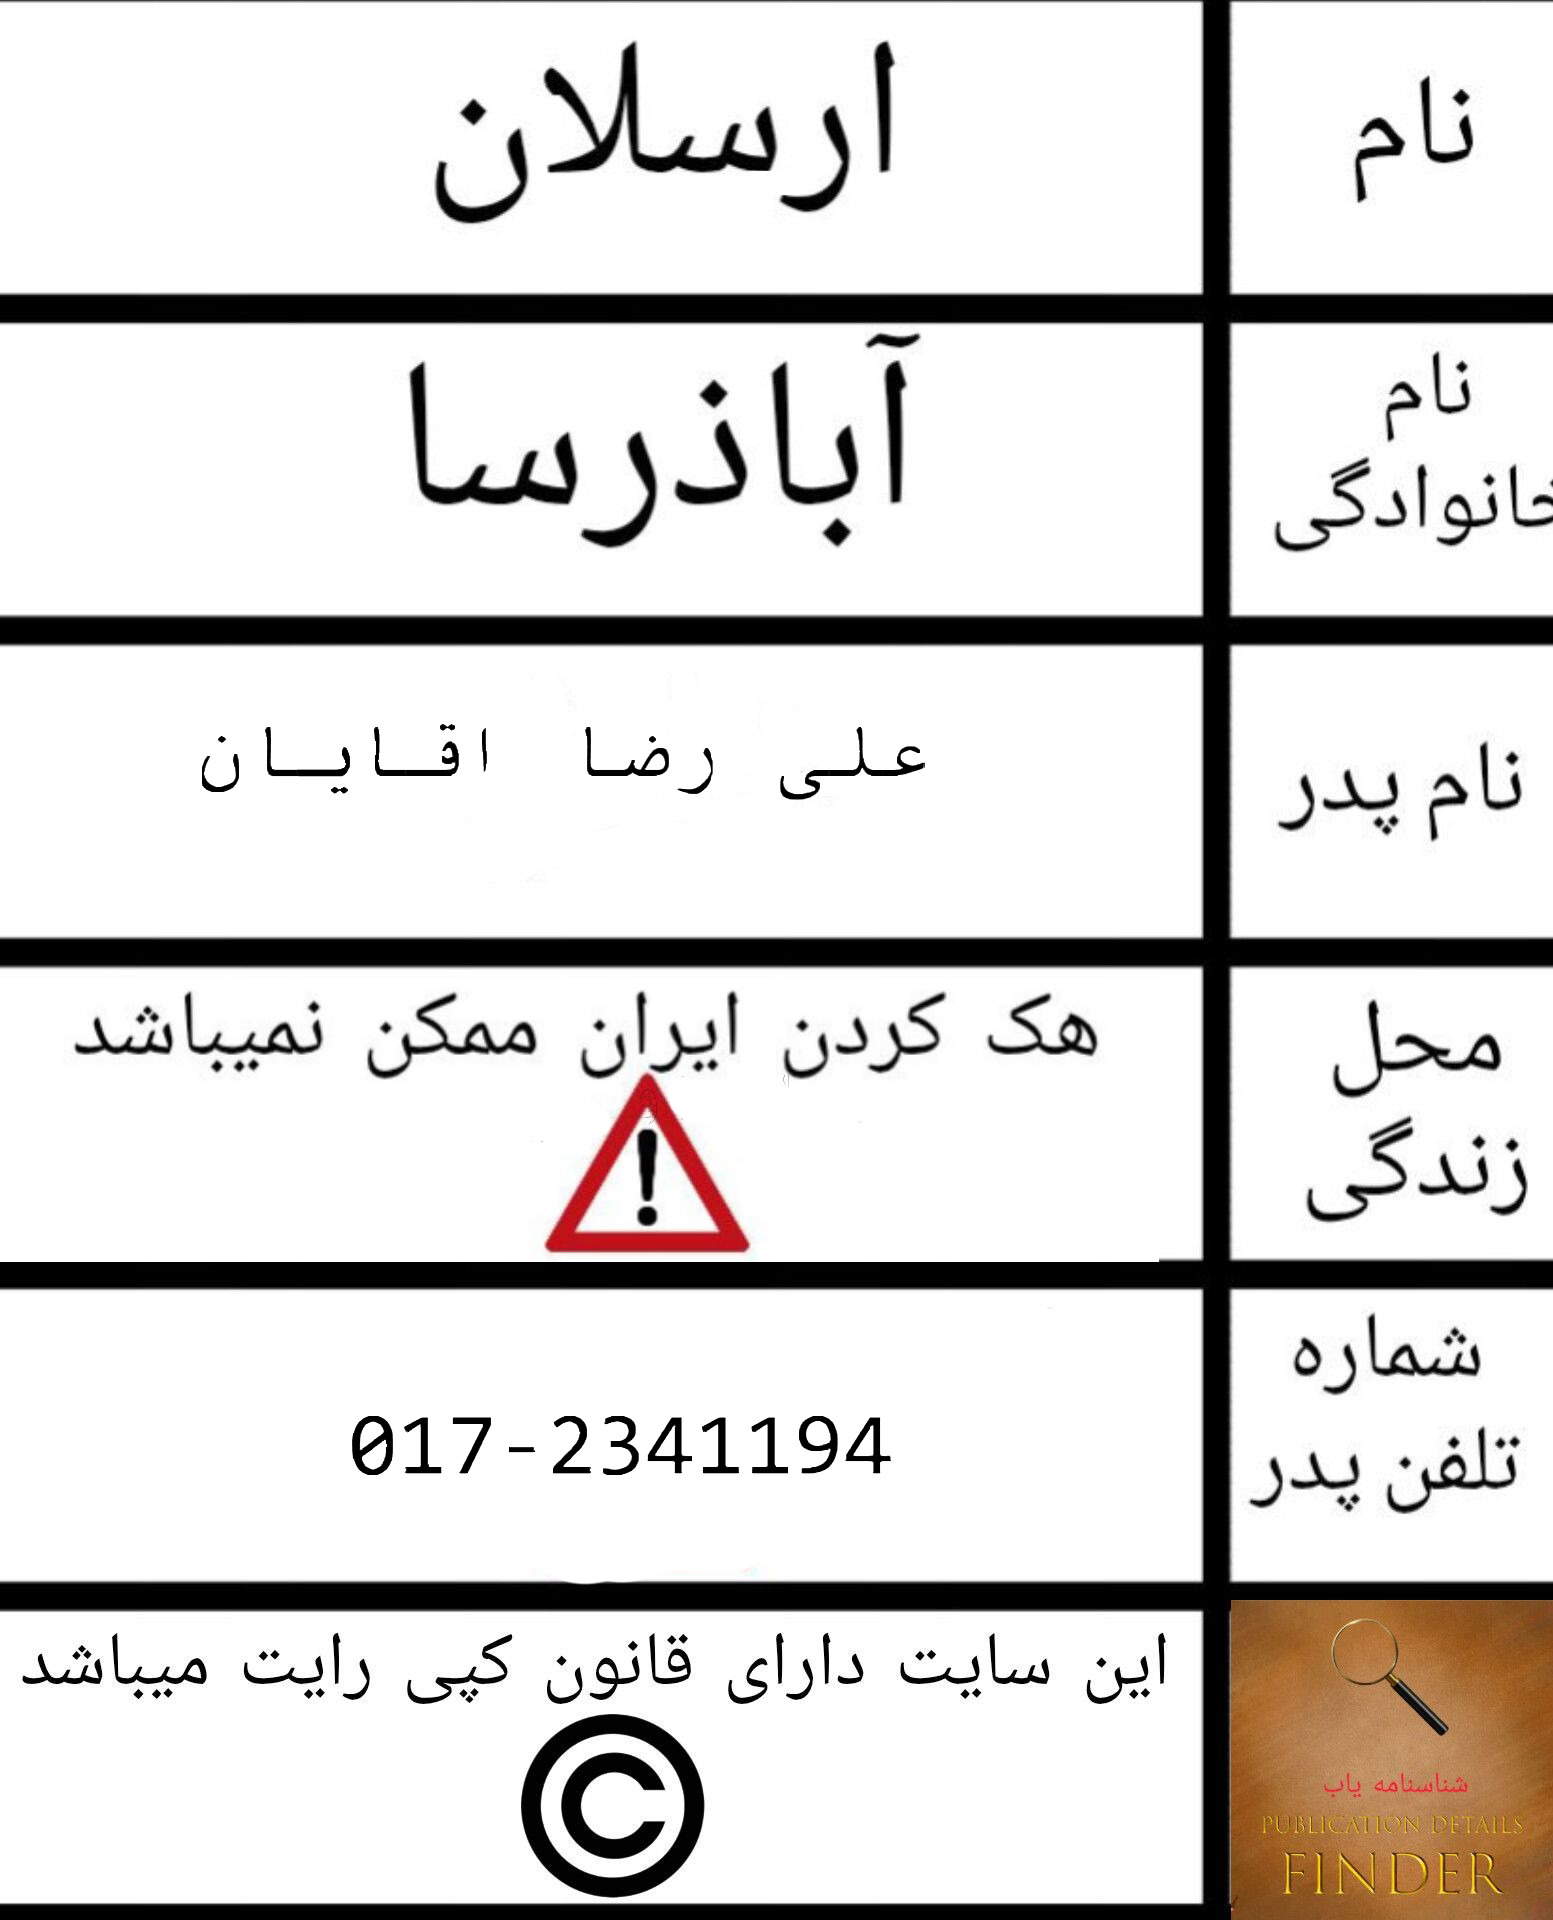
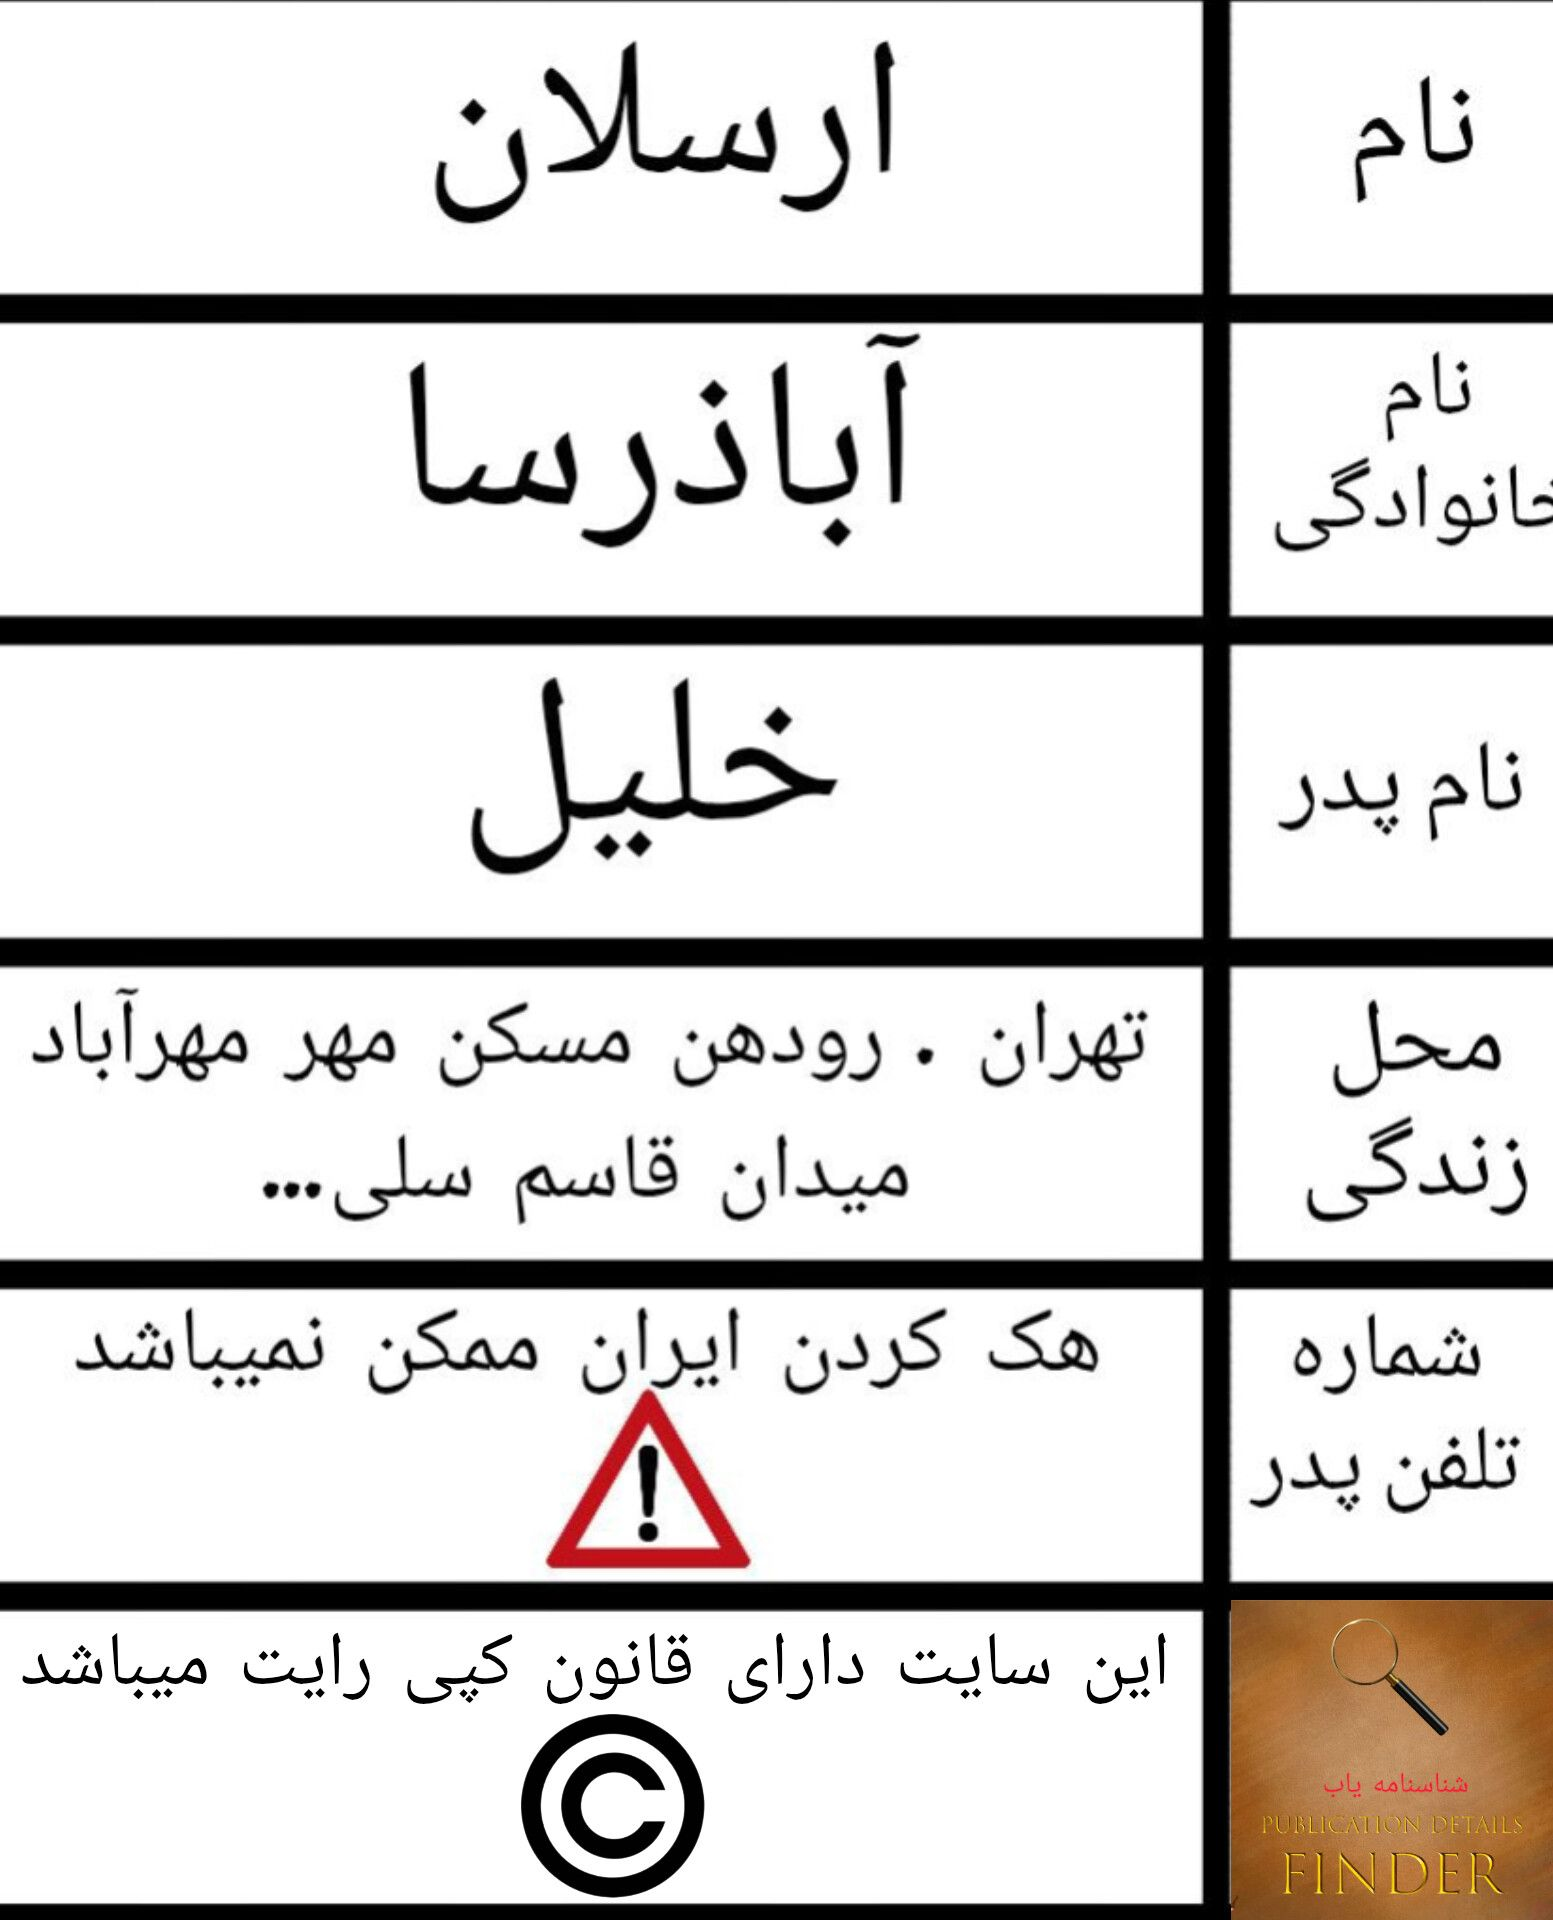
fix

diff --git a/mehmet678/index.html b/mehmet678/index.html
@@ -57,14 +57,14 @@
             fa: {
                 "علی اکاتی دلیر": "ali.jpg",
                 "امیر محمد جلالی نژاد": "amir.jpg",
-                "ارسلان آباذرسا": "arsalan.jpg",
-                "ارسلان آباذرسا گرگانی": "arsalangorgani.jpg"
+                "ارسلان آباذرسا تهرانی": "arsalan.jpg",
+                "ارسلان آباذرسا": "arsalangorgani.jpg"
             },
             en: {
                 "ali okt dallir": "ali.jpg",
                 "amir mohammad jalali neghjhad": "amir.jpg",
                 "arsalan abazarsa": "arsalan.jpg",
-                "arsalan abazarsa gorgani": "arsalangorgani.jpg"
+                "arsalan abazarsa tehrani": "arsalangorgani.jpg"
             }
         };
 
